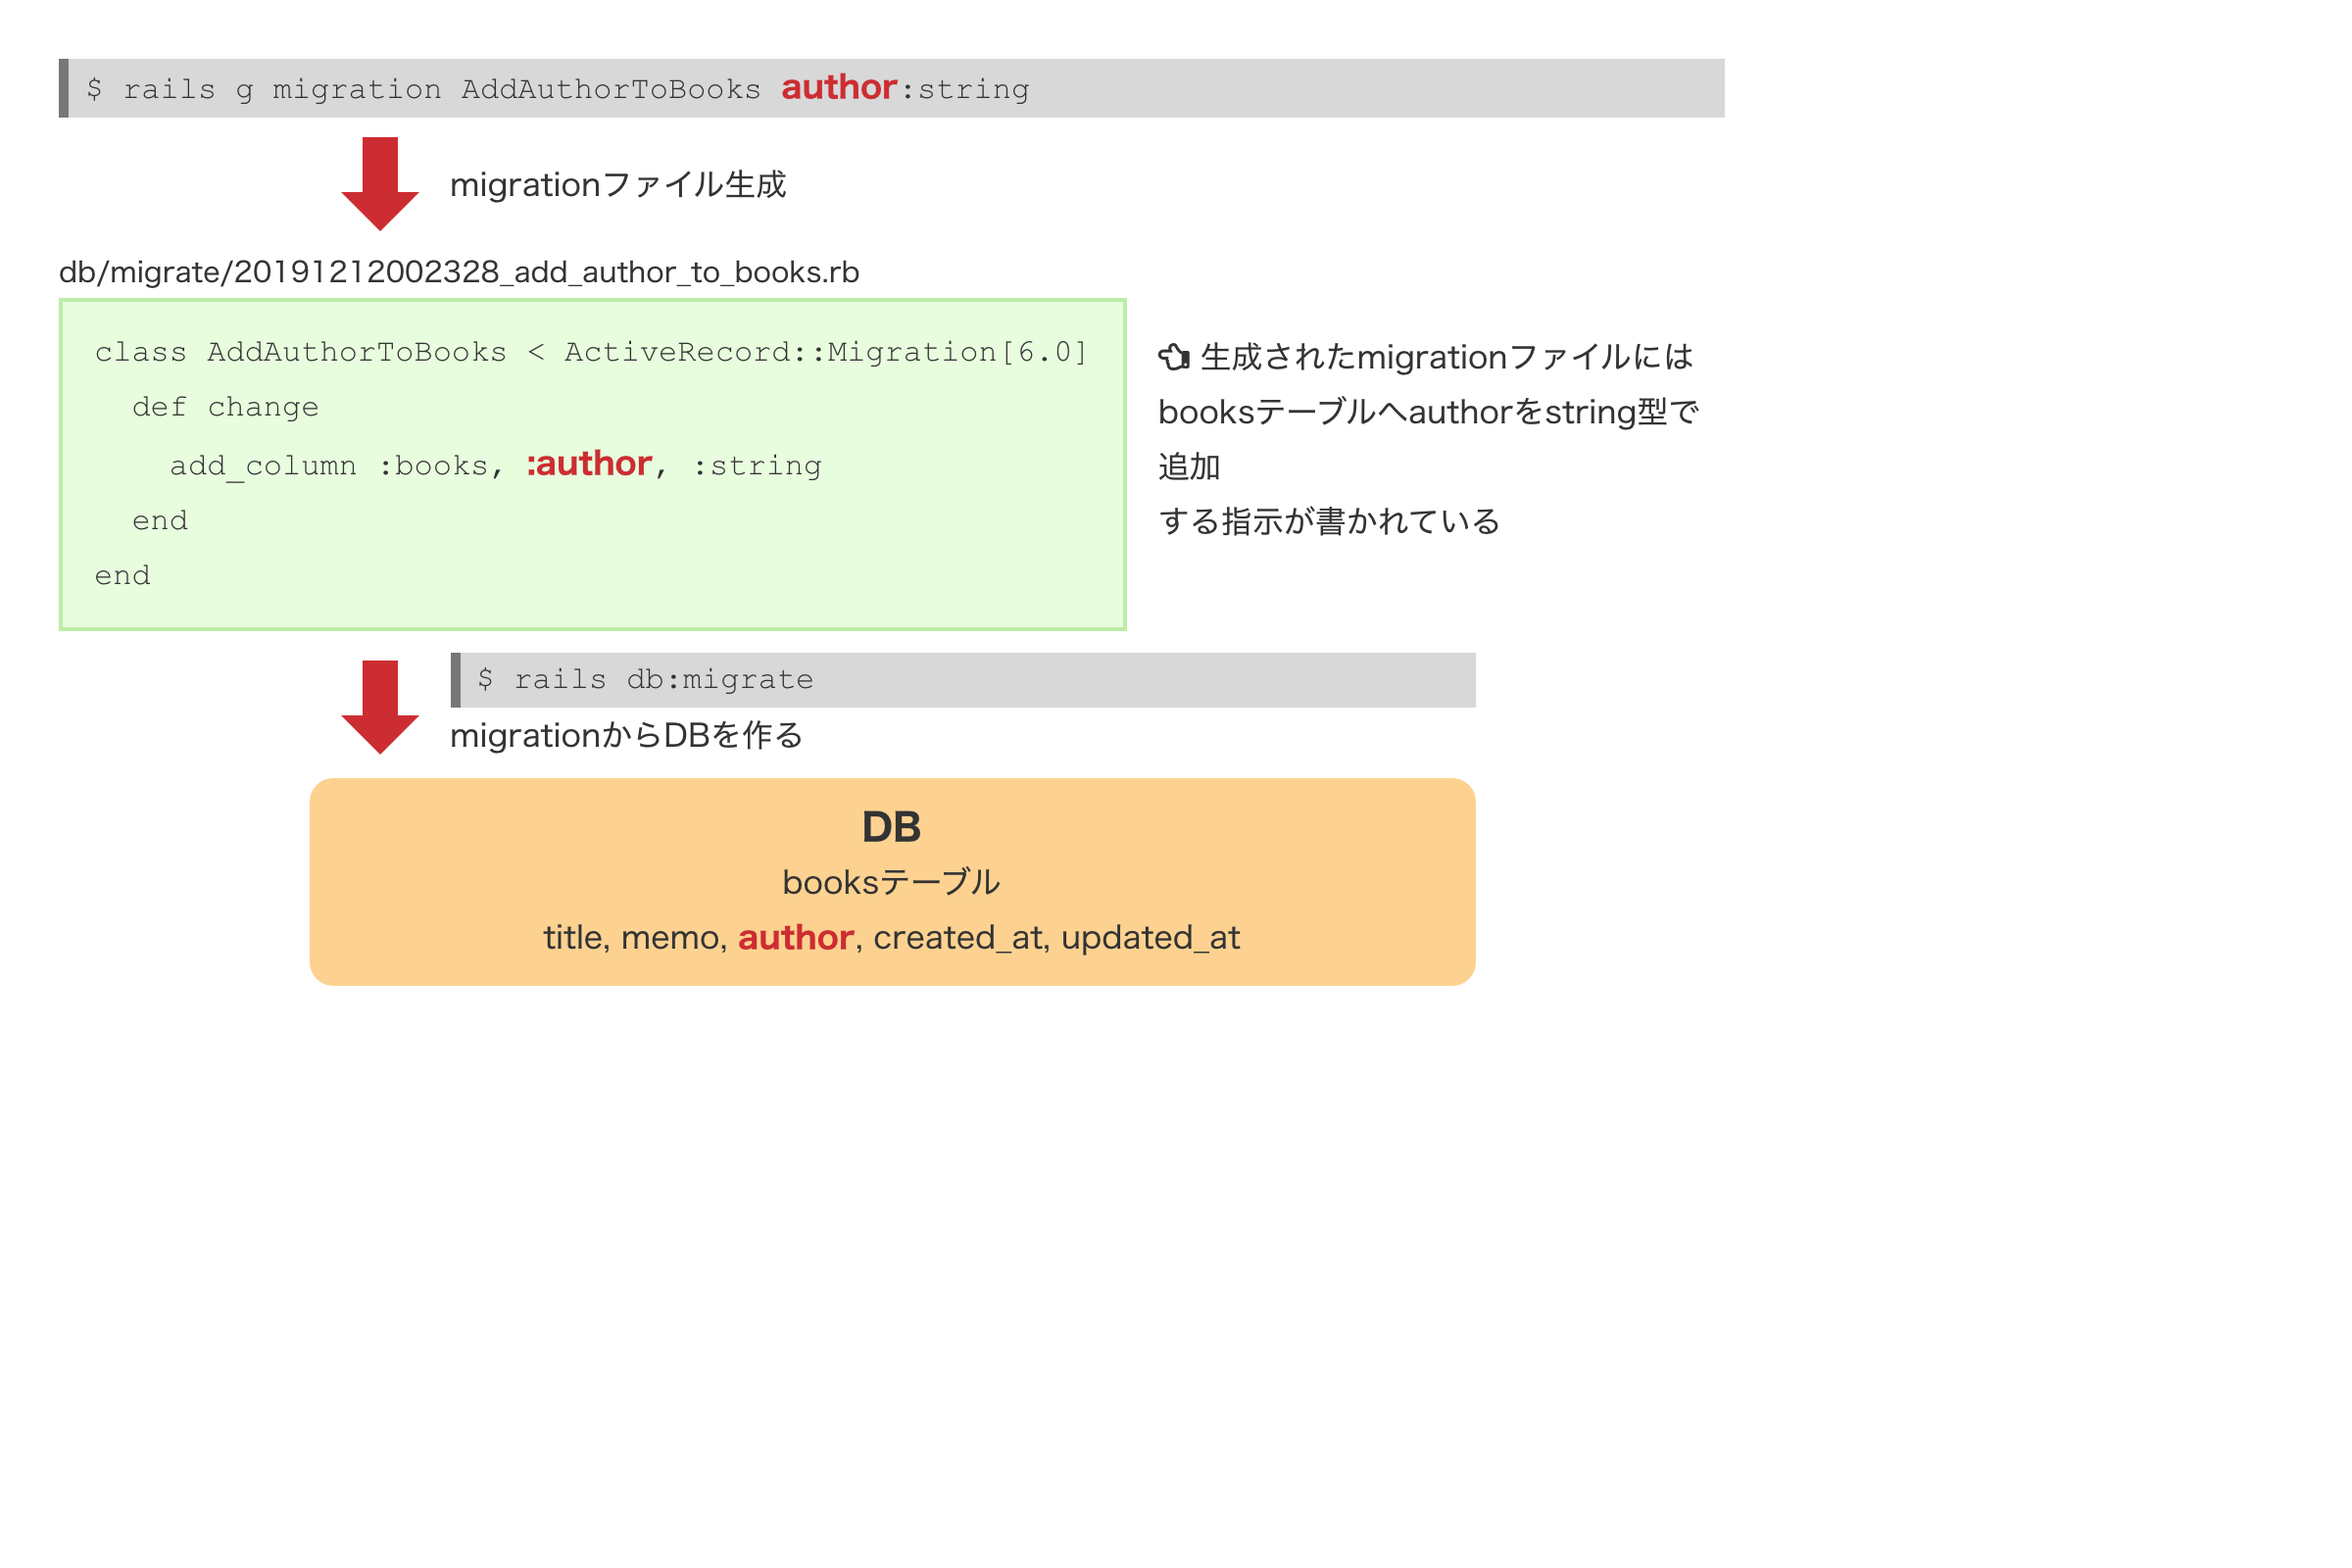
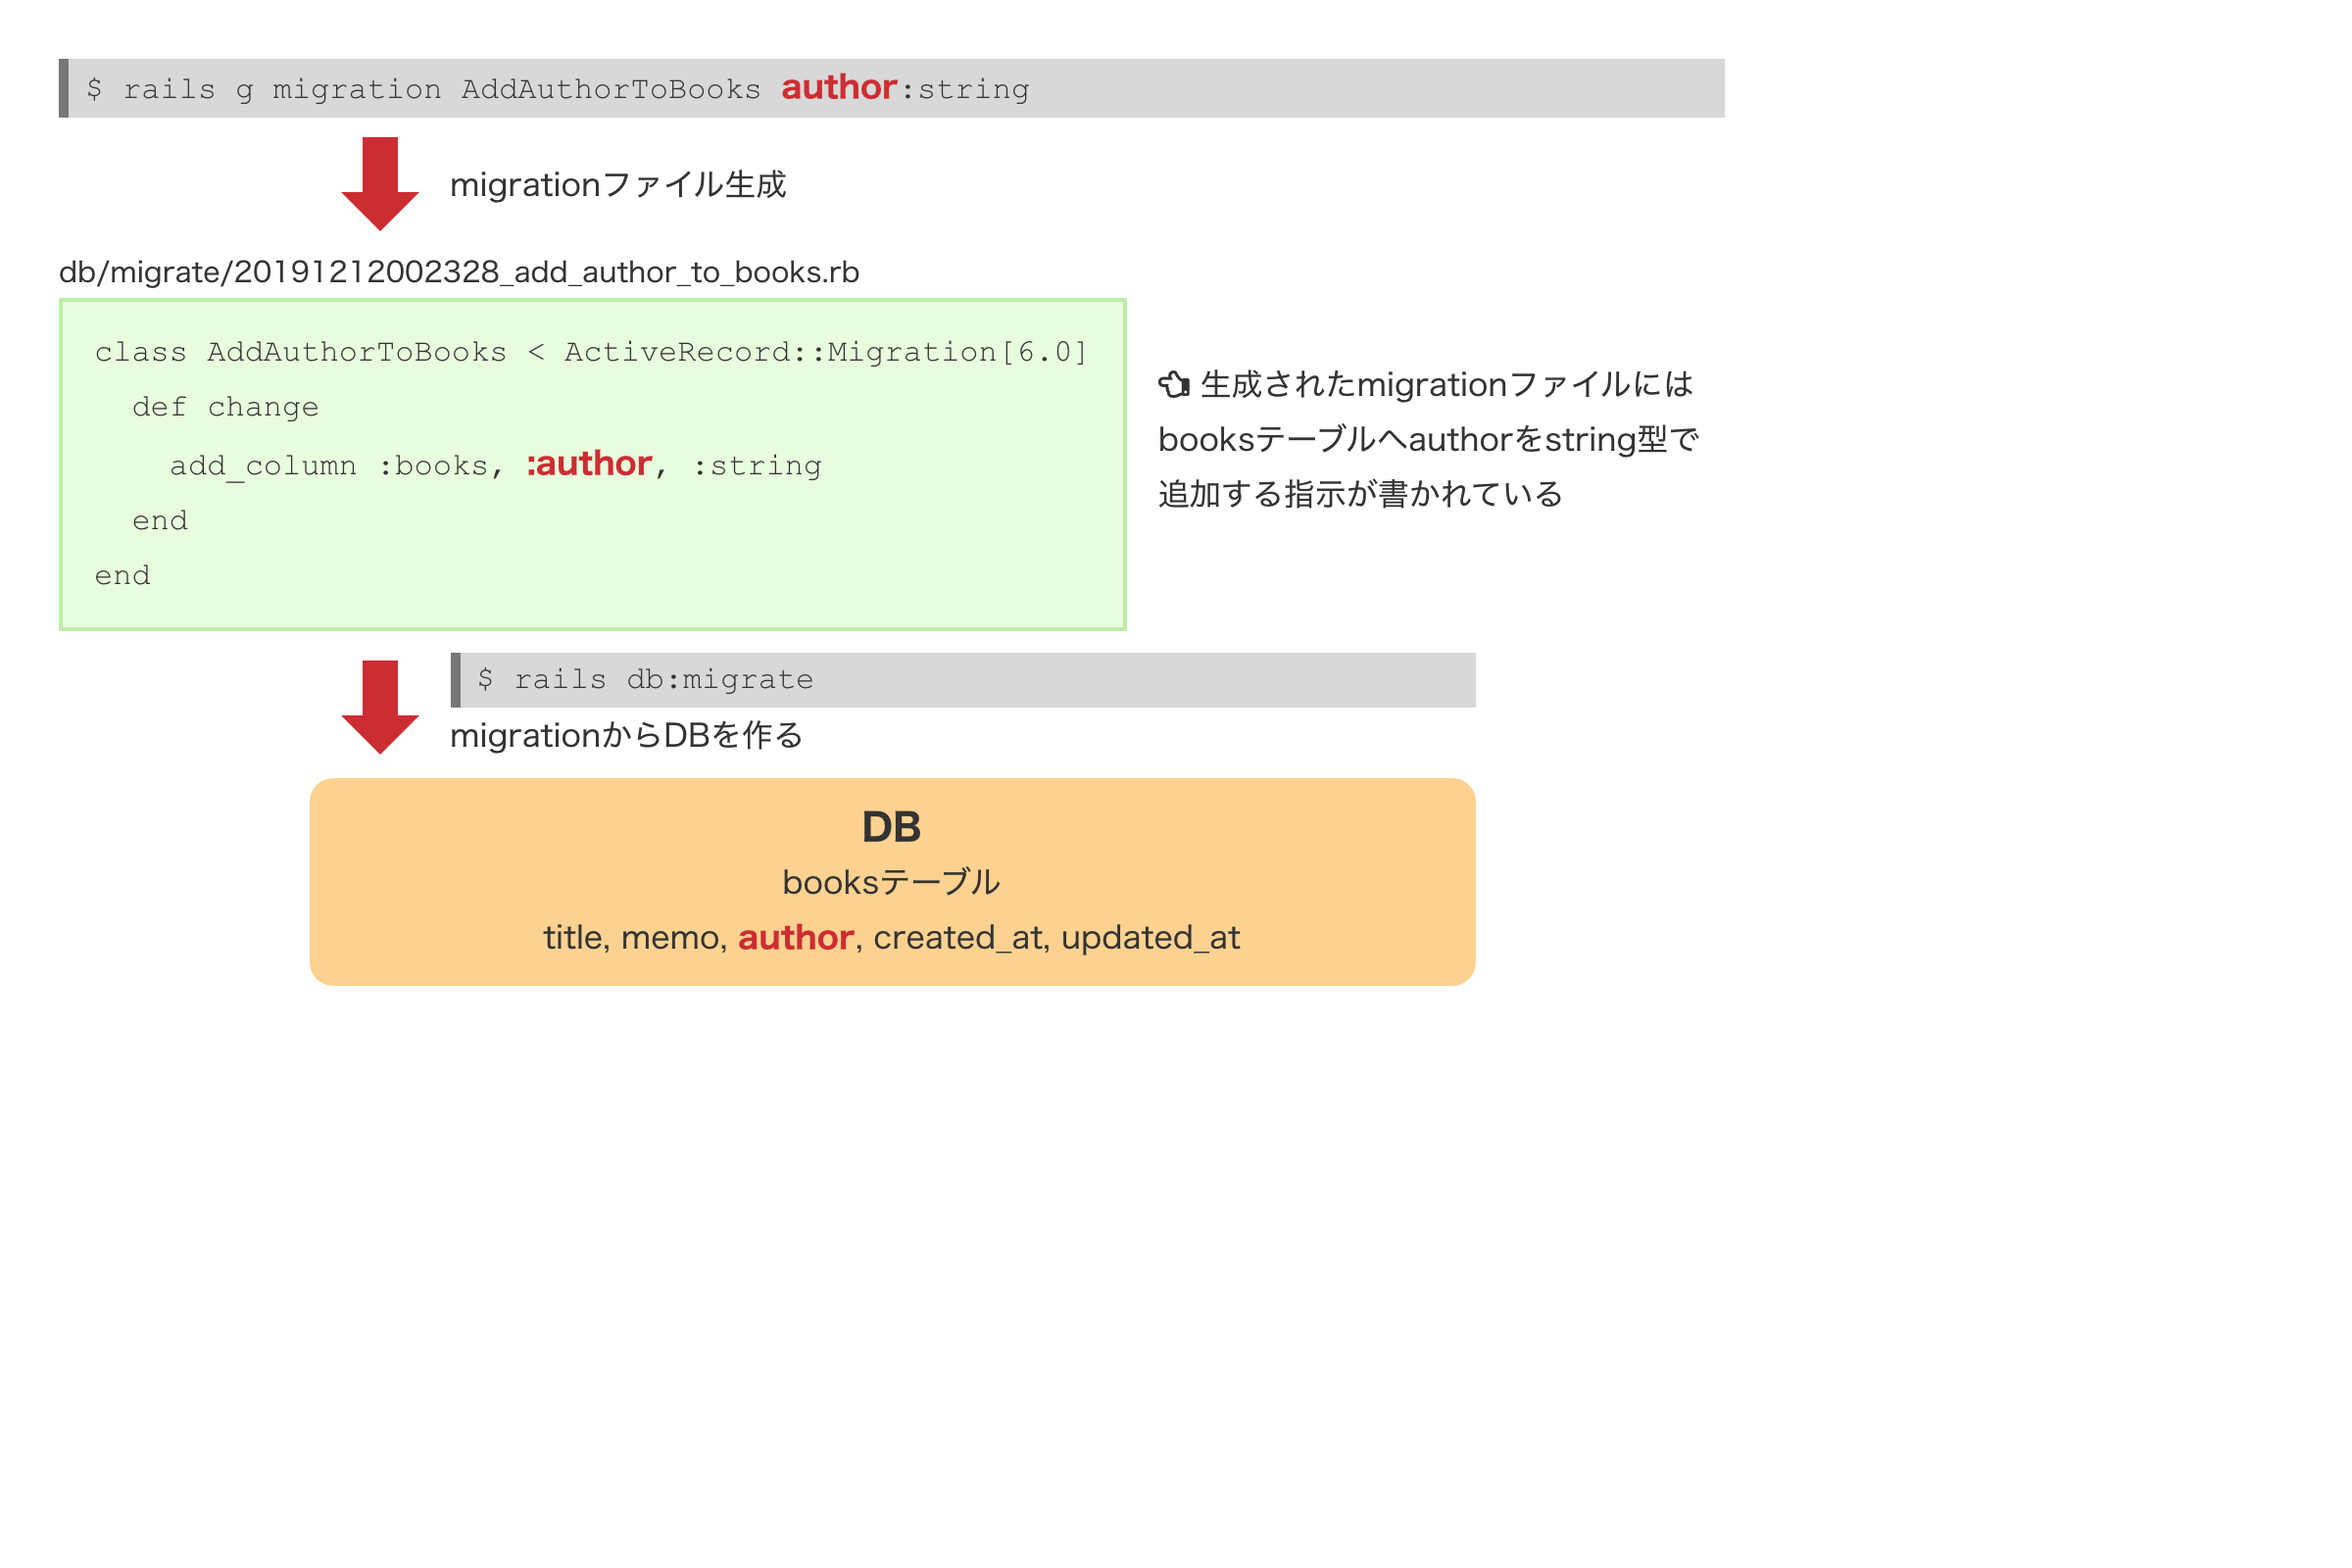
Treat figure in model

Changed region(s): [[0.4688, 0.2188, 0.7188, 0.3438]]

diff --git a/_figures/assets/model/migration_new_column_author.html b/_figures/assets/model/migration_new_column_author.html
@@ -43,8 +43,8 @@ end
     <div class="box__flex-column is-left-margin">
       <i class="far fa-hand-point-left"></i>
       生成されたmigrationファイルには<br>
-      booksテーブルへauthorをstring型で追加<br>
-      する指示が書かれている
+      booksテーブルへauthorをstring型で<br>
+      追加する指示が書かれている
     </div>
   </div>
   <div class="box__flex is-large">
